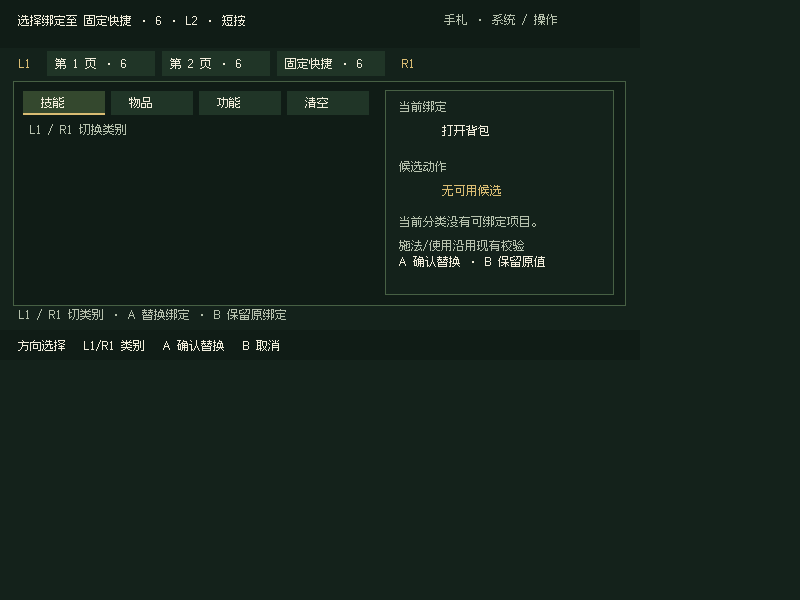
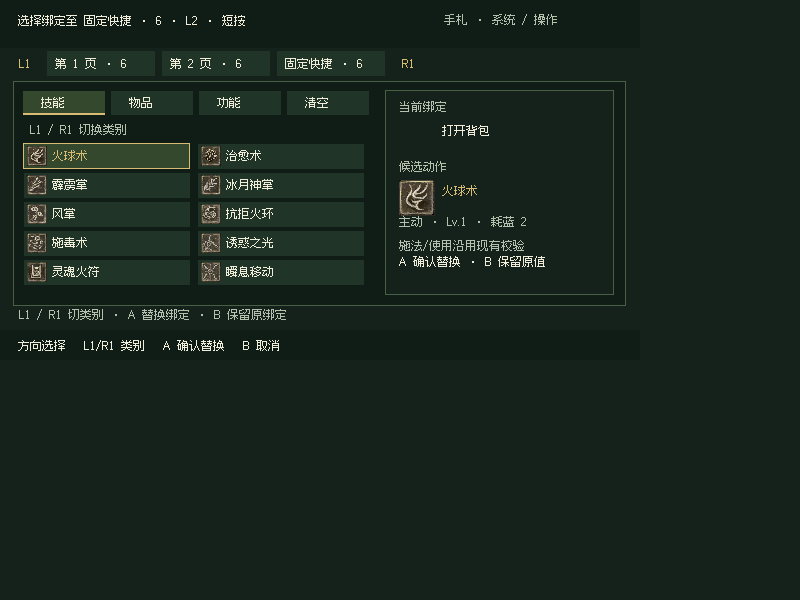
test(tg5040): 验证技能候选翻页与保存重试

Changed region(s): [[0.0312, 0.24, 0.4688, 0.48], [0.5, 0.3, 0.6562, 0.39]]

diff --git a/GodotClient/Tests/HandheldBindingsChecks.cs b/GodotClient/Tests/HandheldBindingsChecks.cs
@@ -1,5 +1,6 @@
 using System;
 using System.IO;
+using Library;
 using System.Reflection;
 using Godot;
 using ZirconClient.Controls;
@@ -16,7 +17,8 @@ public partial class HandheldBindingsChecks : SceneTree
         ("bindings-page-1", new[] { Key.E }),
         ("bindings-page-2", new[] { Key.E }),
         ("bindings-fixed", new[] { Key.Enter }),
-        ("bindings-picker", new[] { Key.E, Key.E }),
+        ("bindings-picker", new[] { Key.Down, Key.Down, Key.Down, Key.Down, Key.Down }),
+        ("bindings-picker-page-2", new[] { Key.E, Key.E }),
         ("bindings-functions-category", new[] { Key.E }),
         ("bindings-clear-category", new[] { Key.Enter }),
         ("bindings-save-error", new[] { Key.Escape, Key.F13 }),
@@ -50,12 +52,20 @@ public partial class HandheldBindingsChecks : SceneTree
             var saved=HandheldActionConfigurationStore.Load(path);
             Check(saved.Pages[0].Bindings[HandheldButton.X].Kind==ActionKind.Empty,
                 "L1/R1 category navigation and A persist the confirmed clear candidate");
+            var intact = File.ReadAllText(path);
             File.WriteAllText(path,"{broken");
-            key.Invoke(ui,new object[]{Key.Space});
+            key.Invoke(ui,new object[]{Key.Enter});
+            key.Invoke(ui,new object[]{Key.E});
+            key.Invoke(ui,new object[]{Key.E});
+            key.Invoke(ui,new object[]{Key.Enter});
             Check(File.ReadAllText(path)=="{broken","failed binding save preserves the damaged original file");
             var retained=(HandheldActionConfiguration)Invoke(game,"CloneHandheldActionConfig");
             Check(retained.Pages[0].Bindings[HandheldButton.X].Kind==ActionKind.Empty,
                 "failed binding save leaves the last effective action configuration intact");
+            File.WriteAllText(path, intact);
+            key.Invoke(ui,new object[]{Key.Enter});
+            Check(HandheldActionConfigurationStore.Load(path).Pages[0].Bindings[HandheldButton.X].MenuAction == MenuAction.Interact,
+                "retry confirms the same candidate after the invalid file is restored");
         }
         finally
         {
@@ -73,16 +83,18 @@ public partial class HandheldBindingsChecks : SceneTree
         bool timing = (bool)typeof(HandheldActionBindings).GetField("_timingSettings", Private).GetValue(_captureUi);
         int category = (int)typeof(HandheldActionBindings).GetField("_category", Private).GetValue(_captureUi);
         string message = (string)typeof(HandheldActionBindings).GetField("_message", Private).GetValue(_captureUi);
+        int PickerChoice() => (int)typeof(HandheldActionBindings).GetField("_choice", Private).GetValue(_captureUi);
         bool valid = index switch
         {
             0 => tab == 0 && !picker && !timing,
             1 => tab == 1 && !picker && !timing,
             2 => tab == 2 && !picker && !timing,
-            3 => tab == 2 && picker && !timing && category == 0,
-            4 => tab == 2 && picker && !timing && category == 2,
-            5 => tab == 2 && picker && !timing && category == 3,
-            6 => tab == 2 && picker && !timing && message.StartsWith("保存失败", StringComparison.Ordinal),
-            7 => tab == 2 && !picker && timing,
+            3 => tab == 2 && picker && !timing && category == 0 && PickerChoice() == 0,
+            4 => tab == 2 && picker && !timing && category == 0 && PickerChoice() == 10,
+            5 => tab == 2 && picker && !timing && category == 2,
+            6 => tab == 2 && picker && !timing && category == 3,
+            7 => tab == 2 && picker && !timing && message.StartsWith("保存失败", StringComparison.Ordinal),
+            8 => tab == 2 && !picker && timing,
             _ => false
         };
         Check(valid, "editor state is correct before capture: " + VisualStates[index].Name);
@@ -94,7 +106,13 @@ public partial class HandheldBindingsChecks : SceneTree
         if (string.IsNullOrWhiteSpace(_visualDirectory)) return;
         Directory.CreateDirectory(_visualDirectory);
         DisplayServer.WindowSetSize(new Vector2I(640, 360));
+        await tree.ToSignal(tree, SceneTree.SignalName.ProcessFrame);
         _captureGame = new GameScene();
+        // Read-only client definitions. Treat them as learned for this offline visual fixture.
+        foreach (var info in Globals.MagicInfoList.Binding)
+            _captureGame.UserMagics[info] = new ClientUserMagic { Info = info, InfoIndex = info.Index, Level = 1 };
+        Check(_captureGame.HandheldBindingChoices(ActionKind.Skill).Count > 10,
+            "fixture has enough selectable skills to scroll to page two");
         string path = Path.Combine(Path.GetTempPath(), "zircon-binding-visual-" + Guid.NewGuid().ToString("N") + ".json");
         File.WriteAllText(path, "{broken");
         Set(_captureGame, "_handheldActionPath", path);

diff --git a/docs/HANDHELD_ACTIONS_INTEGRATION_REPORT.md b/docs/HANDHELD_ACTIONS_INTEGRATION_REPORT.md
@@ -20,11 +20,11 @@
 - `ZIRCON_HANDHELD=1 MIR3_EI_ROOT="$HOME/mir2ei" godot-mono --headless --path GodotClient --script res://Tests/HandheldActionIntegrationChecks.cs`：26 项通过，含真实临时 JSON 保存、另一个角色不继承绑定、新 GameScene 重新加载绑定、失败保留和语义键事件拦截。没有登录服务端，也未发送施法或用药请求。
 - 同环境下 `HandheldBindingsChecks`、`HandheldHudChecks`、`HandheldInputChecks`、`HandheldQuickLayoutChecks`、`HandheldMiniMapChecks`：均通过。
 - `godot-mono --headless --path GodotClient --script res://Tests/RunningContinuityChecks.cs -- --offline-movement-test`：通过短走、持续跑和释放停止场景。
-- 640×360 Xvfb 软件渲染：`HandheldBindingsChecks` 与 `HandheldHudChecks` 实际渲染 Control 并保存 PNG。绑定页包括功能候选、清空、保存失败和计时设置；HUD 有两页、固定槽、肩键长按与组合提示。HUD 截图使用无地图/无角色数据的隔离夹具，不能证明真实小地图纹理或角色技能/物品列表的实机字号。
+- 640×360 Xvfb / OpenGL：`HandheldBindingsChecks` 与 `HandheldHudChecks` 渲染实际 Control。候选测试从只读客户端技能定义构造离线角色，方向键跨过第十个候选进入下一屏；同时验证原配置损坏时保存失败、修复文件后可重试同一候选。HUD 截图使用无地图角色夹具；这些截图不是实体输入或实机字号证据。
 
 ## 渲染证据
 
-绑定界面：[第 1 页](../Tools/trimui-tg5040/evidence/handheld-actions-ui-2026-11-24-verified/bindings-page-1.png)、[第 2 页](../Tools/trimui-tg5040/evidence/handheld-actions-ui-2026-11-24-verified/bindings-page-2.png)、[固定槽](../Tools/trimui-tg5040/evidence/handheld-actions-ui-2026-11-24-verified/bindings-fixed.png)、[功能候选](../Tools/trimui-tg5040/evidence/handheld-actions-ui-2026-11-24-verified/bindings-functions-category.png)、[清空候选](../Tools/trimui-tg5040/evidence/handheld-actions-ui-2026-11-24-verified/bindings-clear-category.png)、[保存失败保护](../Tools/trimui-tg5040/evidence/handheld-actions-ui-2026-11-24-verified/bindings-save-error.png)、[阈值设置](../Tools/trimui-tg5040/evidence/handheld-actions-ui-2026-11-24-verified/bindings-timing.png)。
+绑定界面：[第 1 页](../Tools/trimui-tg5040/evidence/handheld-actions-ui-2026-11-24-verified/bindings-page-1.png)、[第 2 页](../Tools/trimui-tg5040/evidence/handheld-actions-ui-2026-11-24-verified/bindings-page-2.png)、[固定槽](../Tools/trimui-tg5040/evidence/handheld-actions-ui-2026-11-24-verified/bindings-fixed.png)、[技能候选首屏](../Tools/trimui-tg5040/evidence/handheld-actions-ui-2026-11-24-verified/bindings-picker.png)、[技能候选次屏](../Tools/trimui-tg5040/evidence/handheld-actions-ui-2026-11-24-verified/bindings-picker-page-2.png)、[功能候选](../Tools/trimui-tg5040/evidence/handheld-actions-ui-2026-11-24-verified/bindings-functions-category.png)、[清空候选](../Tools/trimui-tg5040/evidence/handheld-actions-ui-2026-11-24-verified/bindings-clear-category.png)、[保存失败保护](../Tools/trimui-tg5040/evidence/handheld-actions-ui-2026-11-24-verified/bindings-save-error.png)、[阈值设置](../Tools/trimui-tg5040/evidence/handheld-actions-ui-2026-11-24-verified/bindings-timing.png)。
 
 F2 HUD：[第 1 页](../Tools/trimui-tg5040/evidence/handheld-actions-hud-2026-11-24/hud-page-1.png)、[第 2 页](../Tools/trimui-tg5040/evidence/handheld-actions-hud-2026-11-24/hud-page-2.png)、[L2 长按提示](../Tools/trimui-tg5040/evidence/handheld-actions-hud-2026-11-24/hud-l2-held.png)、[L2+R2 组合提示](../Tools/trimui-tg5040/evidence/handheld-actions-hud-2026-11-24/hud-chord-hint.png)。
 
@@ -38,7 +38,7 @@ F2 HUD：[第 1 页](../Tools/trimui-tg5040/evidence/handheld-actions-hud-2026-1
 - ARM64 可执行文件尾标记为 `GDPC`，配套程序集为 `data_ZirconClient_linuxbsd_arm64/ZirconClient.dll`。
[4 lines of base64/hex data omitted]
 - 部署文件清单：`.artifacts/handheld-actions-final-2026-11-24/client-current-device.sha256`
 
 ## TG5040 部署与回退
@@ -52,6 +52,11 @@ F2 HUD：[第 1 页](../Tools/trimui-tg5040/evidence/handheld-actions-hud-2026-1
 
 ## 尚未验证
 
-实体摇杆、面键、十字键、肩键与扳机；设备上操作绑定/翻页、组合、长短按、保存后重登恢复、不同角色隔离；施法和用药的服务端结果；人工点启动器封面。未使用未获准的输入注入。桌面截图是测试夹具，且未覆盖实际角色的多页技能/物品候选；单机测试最终只证明配置文件和选择流程，不等同于登录服务端后的行为。
+没有获准的设备输入接口，未使用输入注入。以下需在当前 DLL 上用实体键验收：
+
+1. 从封面启动；左摇杆短推走、持续跑、松开停，右摇杆选怪/NPC/掉落物，A 分别攻击、对话、拾取，B 清除目标；Start、Select、Menu、L3/R3 保持各自职责。
+2. 从「手札 → 系统 → 操作 → 操作绑定」改一项技能和一项消耗品；取消一次候选替换，退出后用实体键翻页、施法和用药，以服务器响应和道具数量核实。实际角色的物品候选翻页及实体屏幕可读性仍未验证。
+3. 分别验证肩键单按、扳机短按/长按与两种组合；在打开编辑器时持续按住一键，关闭后确认松开前不触发世界动作。
+4. 退出、重新登录同一角色，核对绑定恢复；切换角色核对不继承。离线临时 JSON 测试已覆盖重新加载和角色隔离，但未验证真实登录过程。
 
 设备运行包从当前工作树导出，包含当时既有的客户端 WIP；不能把工作树 DLL 哈希当成最小 Git 提交的可重建哈希。
